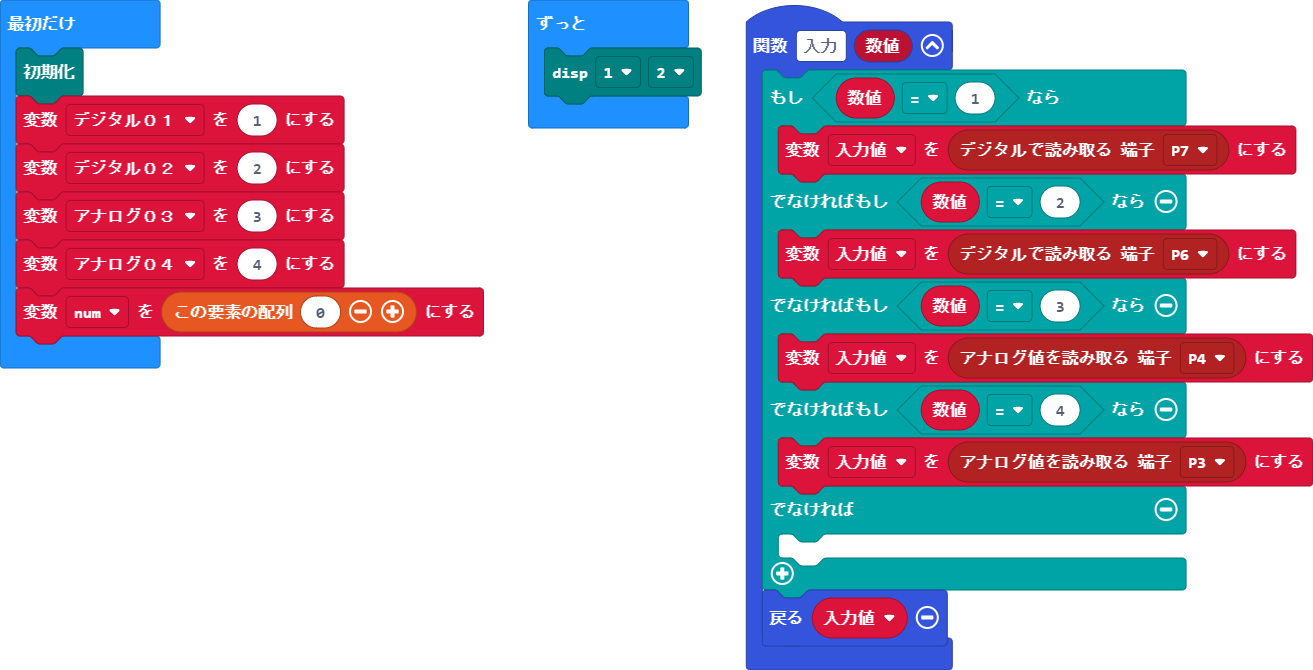
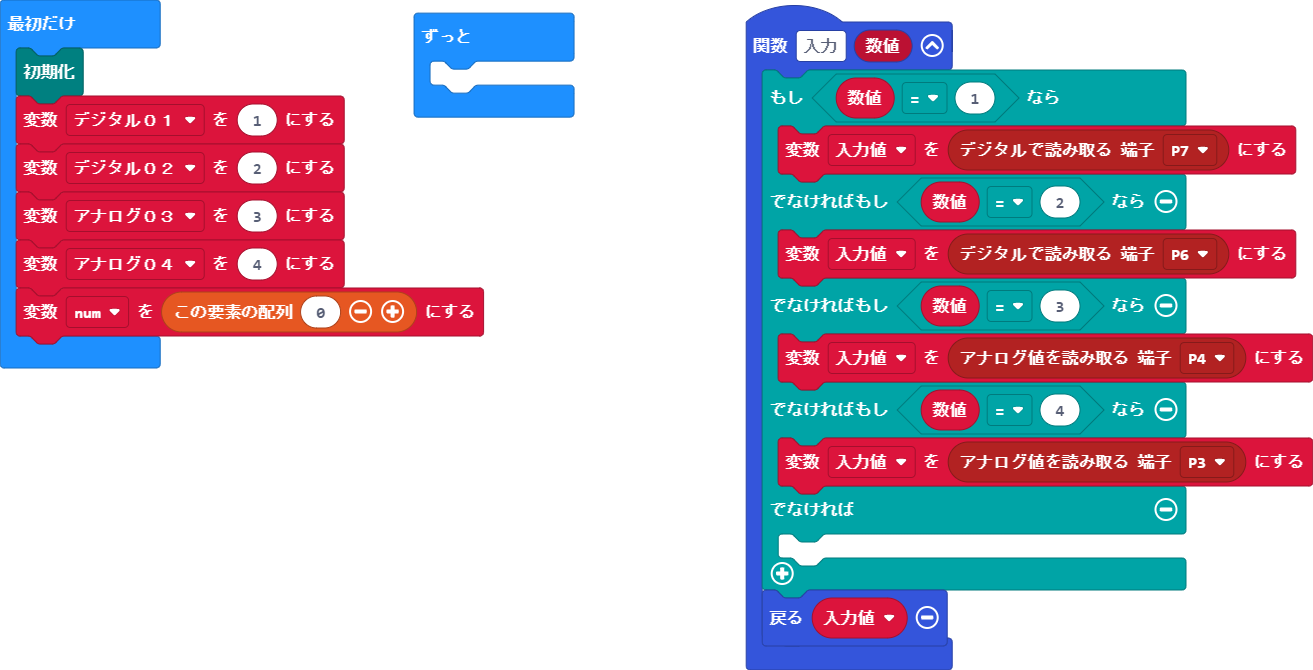
clk関数をなくした

Changed region(s): [[0.3123, 0.0, 0.5621, 0.209]]

diff --git a/custom.ts b/custom.ts
@@ -195,7 +195,13 @@ namespace custom {
             for (let index = 0; index < 8; index++) {
                 let tmp = Math.trunc(FullLED_Value / i)
                 pins.digitalWritePin(DigitalPin.P14, tmp % 2)
-                clk()
+
+                //クロック発振
+                pins.digitalWritePin(DigitalPin.P13, 0)
+                basic.pause(1)
+                pins.digitalWritePin(DigitalPin.P13, 1)
+                basic.pause(1)
+
                 i = i * 2
             }
             pins.digitalWritePin(DigitalPin.P15, 1)
@@ -218,7 +224,13 @@ namespace custom {
 	        for (let index = 0; index < 8; index++) {
                 let tmp = Math.trunc(FullStep / i)
 	            pins.digitalWritePin(DigitalPin.P14, tmp % 2)
-	            clk()
+
+                //クロック発振
+                pins.digitalWritePin(DigitalPin.P13, 0)
+                basic.pause(1)
+                pins.digitalWritePin(DigitalPin.P13, 1)
+                basic.pause(1)
+
 	            i = i * 2
 	        }
             pins.digitalWritePin(DigitalPin.P15, 1)
@@ -263,7 +275,13 @@ namespace custom {
             for (let index = 0; index < 8; index++) {
                 let tmp = Math.trunc(value / i)
                 pins.digitalWritePin(DigitalPin.P14, tmp % 2)
-                clk()
+
+                //クロック発振
+                pins.digitalWritePin(DigitalPin.P13, 0)
+                basic.pause(1)
+                pins.digitalWritePin(DigitalPin.P13, 1)
+                basic.pause(1)
+
                 i = i * 2
             }
             pins.digitalWritePin(DigitalPin.P15, 1)
@@ -320,13 +338,7 @@ namespace custom {
      * @param value describe value here, eg: 5
      */
     //%
-    export function clk(): void {
-        pins.digitalWritePin(DigitalPin.P13, 0)
-        basic.pause(1)
-        pins.digitalWritePin(DigitalPin.P13, 1)
-        basic.pause(1)
-    }
-    //%
+
     export function serial_init(value:number): void {
         pins.digitalWritePin(DigitalPin.P16, 0)
         let i = 1

diff --git a/main.ts b/main.ts
@@ -20,5 +20,5 @@ let アナログ０３ = 3
 let アナログ０４ = 4
 let num = [0]
 basic.forever(function () {
-    custom.disp(LED_view.one, LED_view.two)
+	
 })
